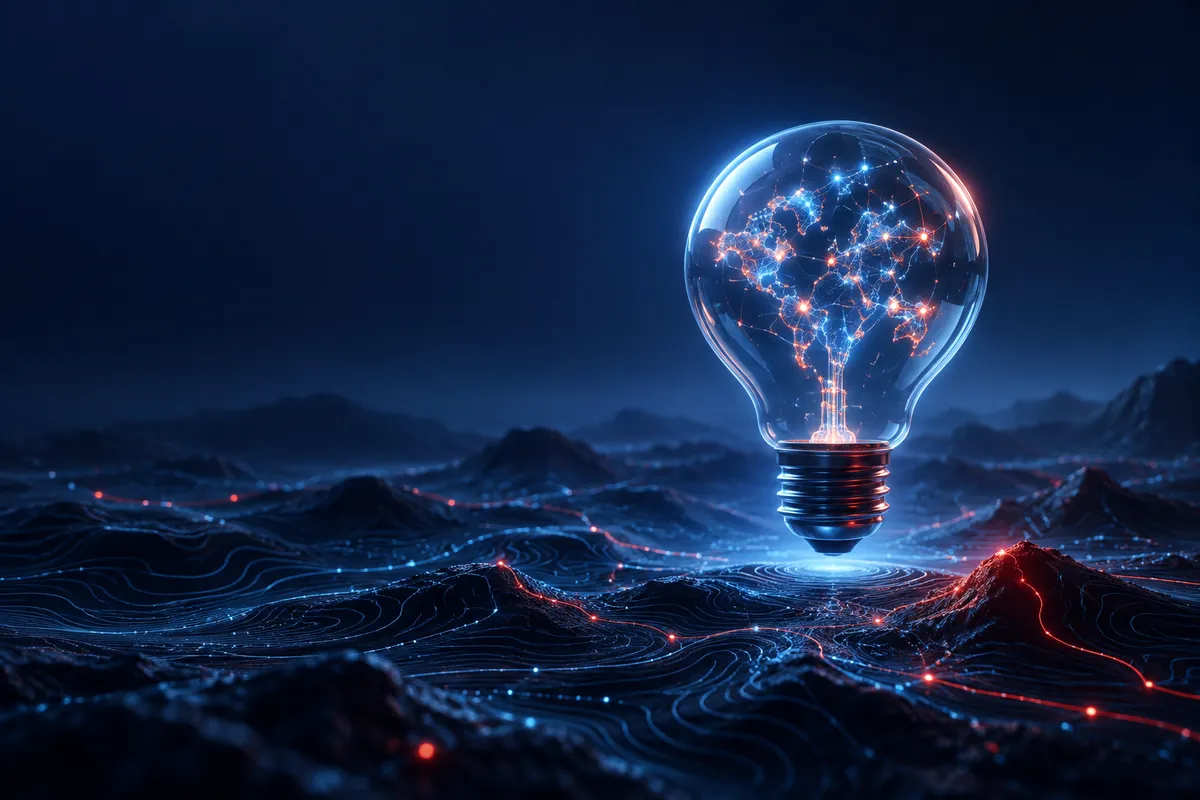
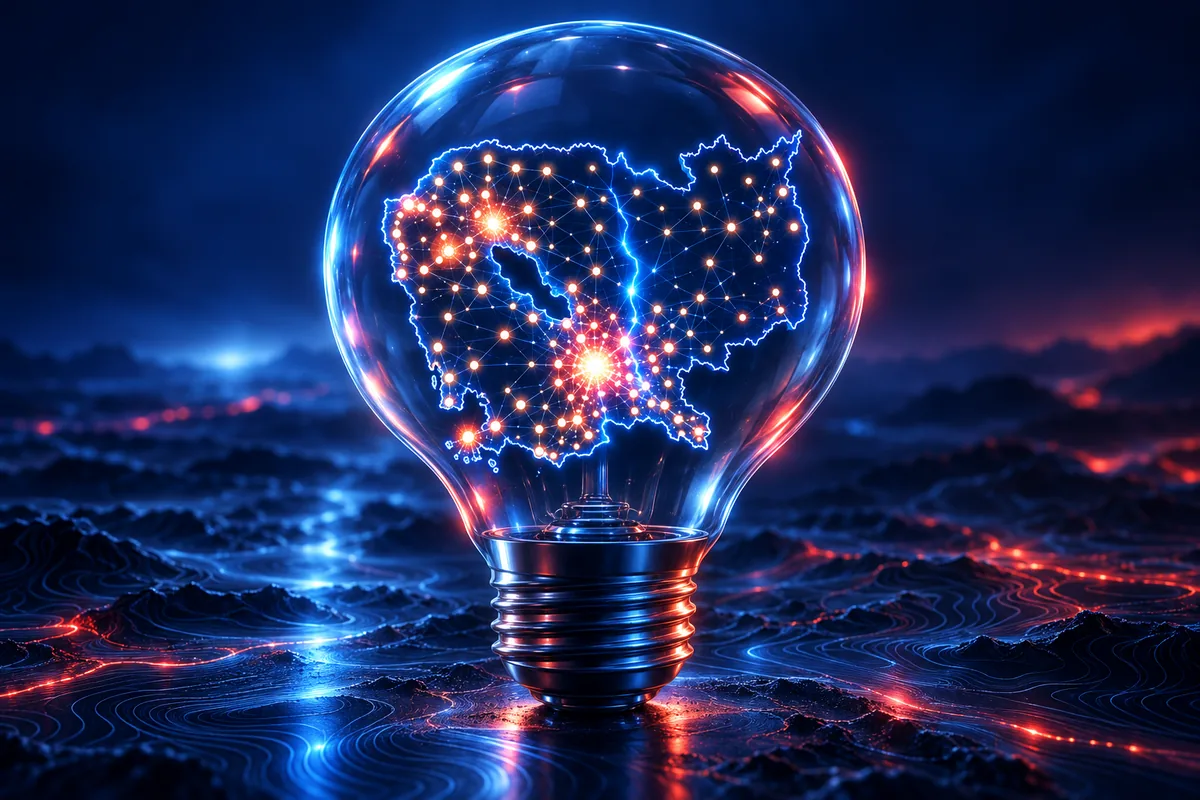
Show Cambodia in pillar art; add research associate photos
- Regenerate the Indicators, Tools and Insights pillar images with Codex,
  using reference renders of Cambodia's real outline, district map and
  economic hotspots so every map depicts Cambodia rather than generic
  Southeast Asia
- Add photos and profile links for research associates Li Xiaomeng and
  He Du (carlos-mendez.org author pages)
- Fix the district GDP dataset citation to He, D., Mendez, C., & Li, X.
  (surname first, as in the original citation)

diff --git a/index.html b/index.html
@@ -92,9 +92,9 @@
           "spatialCoverage": { "@type": "Place", "name": "Cambodia" },
           "keywords": ["GDP per capita", "districts", "regional convergence", "Cambodia"],
           "creator": [
-            { "@type": "Person", "name": "He Du" },
+            { "@type": "Person", "name": "He Du", "url": "https://carlos-mendez.org/authors/hedu/" },
             { "@type": "Person", "name": "Carlos Mendez" },
-            { "@type": "Person", "name": "Xiaomeng Li" }
+            { "@type": "Person", "name": "Li Xiaomeng", "url": "https://carlos-mendez.org/authors/lixiaomeng/" }
           ],
           "distribution": [
             { "@type": "DataDownload", "encodingFormat": "text/csv", "contentUrl": "https://quarcs-lab.github.io/geo4cambodia/districts202-gdppc/wide_y.csv" },
@@ -438,7 +438,7 @@ xtsum y ln_y trend400_ln_y`,
             references: [
               { text: 'Kummu, M., Kosonen, M., & Masoumzadeh Sayyar, S. (2025). Downscaled gridded global dataset for gross domestic product (GDP) per capita PPP over 1990–2022. Scientific Data, 12, 178.', url: 'https://doi.org/10.1038/s41597-025-04487-x' },
             ],
-            citation: 'Du, H., Mendez, C., & Li, X. (2025). Estimates of district-level GDP per capita in Cambodia 1990–2022. GeoDevelopment Observatory of Cambodia. https://github.com/quarcs-lab/geo4cambodia/tree/main/districts202-gdppc',
+            citation: 'He, D., Mendez, C., & Li, X. (2025). Estimates of district-level GDP per capita in Cambodia 1990–2022. GeoDevelopment Observatory of Cambodia. https://github.com/quarcs-lab/geo4cambodia/tree/main/districts202-gdppc',
             related: ['districts202-eda', 'districts202-esda', 'egdp-dynamics', 'space-time-egdp'],
           },
           {
@@ -783,8 +783,8 @@ twoway scatter HDI lnNTL`,
             { name: 'Ate Poortinga', affiliation: 'Spatial Informatics Group, USA', avatar: 'images/people/ate-poortinga.webp' },
           ],
           associates: [
-            { name: 'LI Xiaomeng', affiliation: 'Nagoya University, Japan' },
-            { name: 'Du He', affiliation: 'Nagoya University, Japan' },
+            { name: 'Li Xiaomeng', affiliation: 'Nagoya University, Japan', avatar: 'images/people/li-xiaomeng.webp', website: 'https://carlos-mendez.org/authors/lixiaomeng/' },
+            { name: 'He Du', affiliation: 'Nagoya University, Japan', avatar: 'images/people/he-du.webp', website: 'https://carlos-mendez.org/authors/hedu/' },
           ],
         };
 
@@ -1470,7 +1470,7 @@ twoway scatter HDI lnNTL`,
               )}
               <h4 className={`${small ? 'text-base' : 'text-lg'} font-bold text-white`}>
                 {person.website
-                  ? <a href={person.website} target="_blank" rel="noopener noreferrer" className="hover:text-brand-sky inline-flex items-center gap-1">{person.name} <ExternalLink size={12} /><span className="sr-only"> (personal website, opens in a new tab)</span></a>
+                  ? <a href={person.website} target="_blank" rel="noopener noreferrer" className="hover:text-brand-sky inline-flex items-center gap-1">{person.name} <ExternalLink size={12} /><span className="sr-only"> (profile, opens in a new tab)</span></a>
                   : person.name}
               </h4>
               <p className="text-slate-400 text-sm mt-1">{person.affiliation}</p>

diff --git a/README.md b/README.md
@@ -98,8 +98,8 @@ The site is a single `index.html` with no build step. Every item (indicator, not
 
 ## 👥 Team
 
-**Core team:** Carlos Mendez (Nagoya University, Japan) · Theara Khoun (UNDP Cambodia) · Ate Poortinga (Spatial Informatics Group, USA)
-**Research associates:** LI Xiaomeng (Nagoya University, Japan) · Du He (Nagoya University, Japan)
+**Core team:** [Carlos Mendez](https://carlos-mendez.org) (Nagoya University, Japan) · Theara Khoun (UNDP Cambodia) · Ate Poortinga (Spatial Informatics Group, USA)
+**Research associates:** [Li Xiaomeng](https://carlos-mendez.org/authors/lixiaomeng/) (Nagoya University, Japan) · [He Du](https://carlos-mendez.org/authors/hedu/) (Nagoya University, Japan)
 
 **Contact:** [carlos.mendez.n9@f.mail.nagoya-u.ac.jp](mailto:carlos.mendez.n9@f.mail.nagoya-u.ac.jp) · [theara.khoun@undp.org](mailto:theara.khoun@undp.org) · [apoortinga@sig-gis.com](mailto:apoortinga@sig-gis.com)
 **Community:** [GitHub Discussions](https://github.com/quarcs-lab/geo4cambodia/discussions)

diff --git a/districts202-gdppc/README.md b/districts202-gdppc/README.md
@@ -73,7 +73,7 @@ xtsum y ln_y
 
 ## Recommended Citation
 
-> Du, H., Mendez, C., & Li, X. (2025). *Estimates of district-level GDP per capita in Cambodia 1990–2022*. GeoDevelopment Observatory of Cambodia. https://github.com/quarcs-lab/geo4cambodia/tree/main/districts202-gdppc
+> He, D., Mendez, C., & Li, X. (2025). *Estimates of district-level GDP per capita in Cambodia 1990–2022*. GeoDevelopment Observatory of Cambodia. https://github.com/quarcs-lab/geo4cambodia/tree/main/districts202-gdppc
 
 Original repository: [gdo-cambodia/cambodia202-1990-2022-GDPpc](https://github.com/gdo-cambodia/cambodia202-1990-2022-GDPpc)
 
